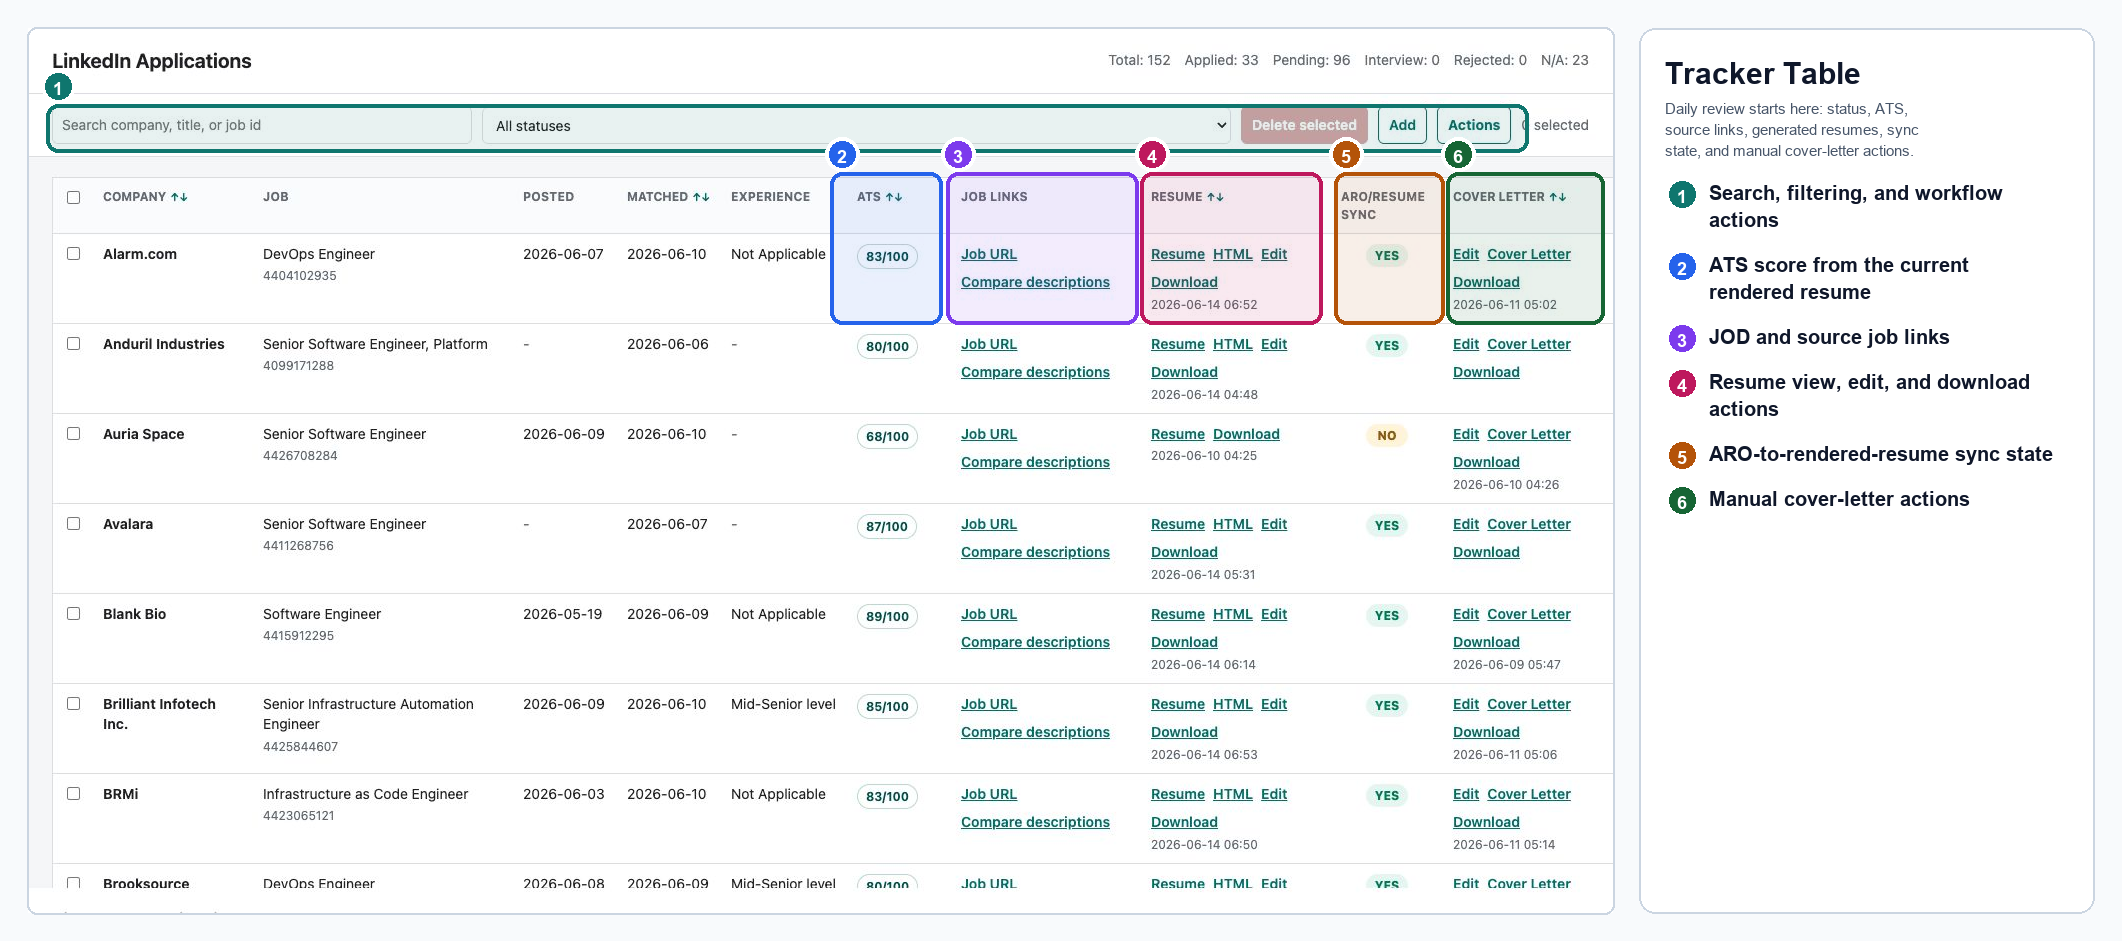
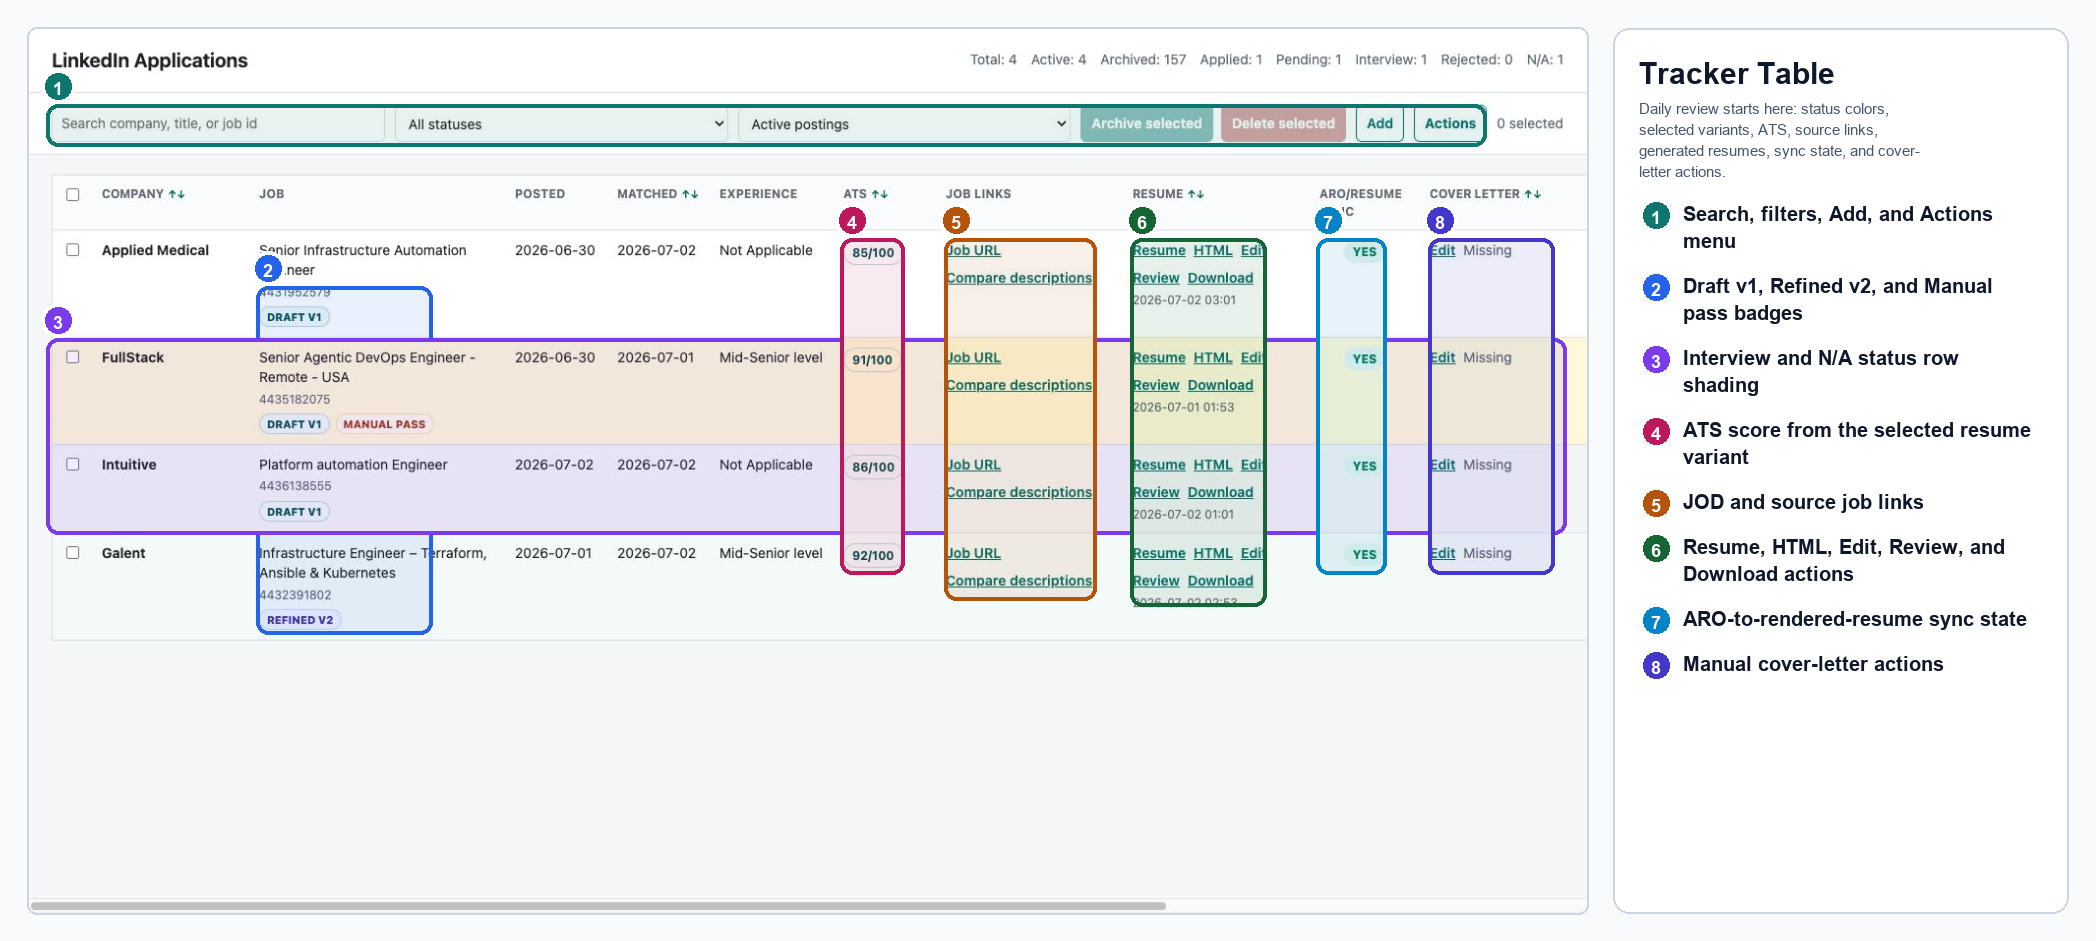
Regenerate README tracker screenshots

diff --git a/scripts/annotate_readme_assets.py b/scripts/annotate_readme_assets.py
@@ -201,10 +201,10 @@ def draw_progress_panel(target: str) -> None:
 
     panel = (pad, pad, pad + panel_w, height - pad)
     draw_rounded(draw, panel, PANEL, BORDER, width=2, radius=14)
-    draw.text((panel[0] + 68, panel[1] + 24), "Background progress", fill=TEXT, font=FONT_LEGEND)
+    draw.text((panel[0] + 68, panel[1] + 24), "Background action", fill=TEXT, font=FONT_LEGEND)
     draw.text(
         (panel[0] + 68, panel[1] + 55),
-        "Resume regeneration is running",
+        "run v1 and v2 resume workflow for 4 job(s)",
         fill=MUTED,
         font=FONT_SMALL,
     )
@@ -219,22 +219,31 @@ def draw_progress_panel(target: str) -> None:
     draw.text((panel[2] - 204, panel[1] + 32), "Running", fill=ACCENT, font=FONT_SMALL)
     draw_rounded(
         draw,
-        (panel[2] - 98, panel[1] + 24, panel[2] - 28, panel[1] + 58),
+        (panel[2] - 98, panel[1] + 24, panel[2] - 62, panel[1] + 58),
         (241, 245, 249, 255),
         color_for(4),
         width=2,
         radius=17,
     )
-    draw.text((panel[2] - 78, panel[1] + 32), "Hide", fill=MUTED, font=FONT_SMALL)
+    draw.text((panel[2] - 84, panel[1] + 32), "v", fill=MUTED, font=FONT_SMALL)
+    draw_rounded(
+        draw,
+        (panel[2] - 52, panel[1] + 24, panel[2] - 16, panel[1] + 58),
+        (241, 245, 249, 255),
+        color_for(5),
+        width=2,
+        radius=17,
+    )
+    draw.text((panel[2] - 40, panel[1] + 32), "x", fill=MUTED, font=FONT_SMALL)
 
     console = (panel[0] + 24, panel[1] + 88, panel[2] - 24, panel[3] - 22)
     draw_rounded(draw, console, (15, 23, 42, 255), (51, 65, 85, 255), width=2, radius=10)
     console_lines = [
-        "[aro] Loading job row lts-4284753009",
-        "[jod] Prompt JOD ready: 1,785 words",
-        "[targets] Generated 9 compact requirement targets with GLM 5.2",
-        "[experience] Rewriting prior-role bullets from ARO evidence",
-        "[render] Stored ARO, resume HTML/PDF, and refreshed ATS fields",
+        "[v1] Generating Draft v1 for 4432391802",
+        "[v1] Stored ARO YAML, resume HTML/PDF, and ATS fields",
+        "[v2] Running GLM 5.2 second-pass refinement",
+        "[v2] Stored Refined v2 with critique and validation metadata",
+        "[tracker] Active resume links remain on the selected variant",
     ]
     y = console[1] + 20
     for line in console_lines:
@@ -244,14 +253,17 @@ def draw_progress_panel(target: str) -> None:
     callouts = [
         Callout("Live command output", console),
         Callout(
-            "Current action summary",
+            "Current workflow summary",
             (panel[0] + 24, panel[1] + 18, panel[0] + 340, panel[1] + 50),
         ),
         Callout(
             "Running/completed state",
             (panel[2] - 226, panel[1] + 24, panel[2] - 112, panel[1] + 58),
         ),
-        Callout("Collapse control", (panel[2] - 98, panel[1] + 24, panel[2] - 28, panel[1] + 58)),
+        Callout(
+            "Collapse and close controls",
+            (panel[2] - 98, panel[1] + 24, panel[2] - 16, panel[1] + 58),
+        ),
     ]
 
     overlay = Image.new("RGBA", image.size, (0, 0, 0, 0))
@@ -288,15 +300,49 @@ def main() -> None:
         "tracker-main.png",
         "tracker-main-annotated.png",
         "Tracker Table",
-        "Daily review starts here: status, ATS, source links, generated resumes, "
-        "sync state, and manual cover-letter actions.",
+        "Daily review starts here: status colors, selected variants, ATS, source "
+        "links, generated resumes, sync state, and cover-letter actions.",
         [
-            Callout("Search, filtering, and workflow actions", (18, 76, 1500, 124)),
-            Callout("ATS score from the current rendered resume", (802, 144, 914, 296)),
-            Callout("JOD and source job links", (918, 144, 1110, 296)),
-            Callout("Resume view, edit, and download actions", (1112, 144, 1294, 296)),
-            Callout("ARO-to-rendered-resume sync state", (1306, 144, 1416, 296)),
-            Callout("Manual cover-letter actions", (1418, 144, 1576, 296)),
+            Callout("Search, filters, Add, and Actions menu", (18, 76, 1458, 118)),
+            Callout("Draft v1, Refined v2, and Manual pass badges", (228, 258, 404, 606)),
+            Callout("Interview and N/A status row shading", (18, 310, 1538, 506)),
+            Callout("ATS score from the selected resume variant", (812, 210, 876, 546)),
+            Callout("JOD and source job links", (916, 210, 1068, 572)),
+            Callout("Resume, HTML, Edit, Review, and Download actions", (1102, 210, 1238, 578)),
+            Callout("ARO-to-rendered-resume sync state", (1288, 210, 1358, 546)),
+            Callout("Manual cover-letter actions", (1400, 210, 1526, 546)),
+        ],
+    )
+    annotate_screenshot(
+        "tracker-add-seed.png",
+        "tracker-add-seed-annotated.png",
+        "Add And Seed Jobs",
+        "The Add page can seed a batch, choose a posting-age window, and chain "
+        "the selected local workflow stages for the new rows.",
+        [
+            Callout("Seed widget for batch loading", (20, 134, 1534, 530)),
+            Callout("Job count maps to MAX_JOBS", (34, 202, 1520, 238)),
+            Callout("Posting-age radio choices", (34, 254, 182, 338)),
+            Callout("Default v1 plus v2 workflow toggles", (34, 352, 260, 410)),
+            Callout("Optional manual pass and highlighting stages", (34, 424, 300, 466)),
+            Callout(
+                "Single LinkedIn or external URL fallbacks remain available",
+                (20, 544, 1534, 888),
+            ),
+        ],
+    )
+    annotate_screenshot(
+        "tracker-actions-menu.png",
+        "tracker-actions-menu-annotated.png",
+        "Tracker Actions Menu",
+        "Selected rows can run the main v1 plus v2 path, a v1-only path, v2 "
+        "reruns, Codex manual pass, highlighting, or ARO sync.",
+        [
+            Callout("Actions menu trigger", (1384, 78, 1458, 116)),
+            Callout("Resume workflow choices", (1196, 146, 1438, 354)),
+            Callout("Optional highlighting chain after draft generation", (1196, 370, 1438, 404)),
+            Callout("Selected-row count and Run button", (1196, 420, 1448, 452)),
+            Callout("Actions operate on checked tracker rows", (36, 152, 58, 532)),
         ],
     )
     annotate_screenshot(
@@ -337,6 +383,22 @@ def main() -> None:
             Callout("Rich-text controls for editable sections", (800, 342, 884, 386)),
             Callout("Rendered resume sections available for review", (18, 660, 1568, 892)),
             Callout("Live ATS proxy summary", (1278, 18, 1564, 176)),
+        ],
+    )
+    annotate_screenshot(
+        "resume-variant-review.png",
+        "resume-variant-review-annotated.png",
+        "Resume Variant Review",
+        "The review page compares stored variants, variant-specific artifacts, "
+        "ATS movement, ARO diff, accepted/rejected changes, and unsupported terms.",
+        [
+            Callout("Selected variant badge", (1452, 18, 1526, 40)),
+            Callout("Draft v1, Refined v2, and Manual pass variants", (20, 126, 1532, 548)),
+            Callout("ATS component scores and deltas per variant", (316, 214, 494, 532)),
+            Callout("Variant-specific PDF/HTML artifacts", (600, 214, 678, 464)),
+            Callout("Reversible selection actions", (886, 212, 1080, 502)),
+            Callout("v1/v2 ARO diff", (20, 562, 1532, 1094)),
+            Callout("Accepted, rejected, and unsupported review details", (20, 1108, 1450, 1654)),
         ],
     )
     annotate_screenshot(

diff --git a/README.md b/README.md
@@ -208,6 +208,14 @@ The tracker is the daily operating surface. The main page shows job status, ATS 
 
 ![Annotated main tracker](docs/assets/tracker-main-annotated.png)
 
+The Add page can seed a batch of public postings and chain the selected stages
+for the newly seeded rows. The main Actions menu runs the same workflow family
+against selected tracker rows.
+
+![Annotated add seed workflow](docs/assets/tracker-add-seed-annotated.png)
+
+![Annotated tracker actions menu](docs/assets/tracker-actions-menu-annotated.png)
+
 The JOD editor keeps the source text and prompt text visible side by side. Saving
 this view updates the JOD fields and recalculates ATS values from the current
 resume. The second image is the same page scrolled below the raw text panes,
@@ -228,6 +236,8 @@ rejected changes, unsupported claims, ARO diff, and variant-specific HTML/PDF
 links. The `Use v1 draft`, `Use v2 draft`, and `Use manual pass` actions are
 reversible because they only copy the selected variant into the active resume
 fields.
+
+![Annotated resume variant review](docs/assets/resume-variant-review-annotated.png)
 
 Cover letters are manual for now. The edit page provides a rich-text area for pasted content, then renders the emerald-style PDF on save.
 
